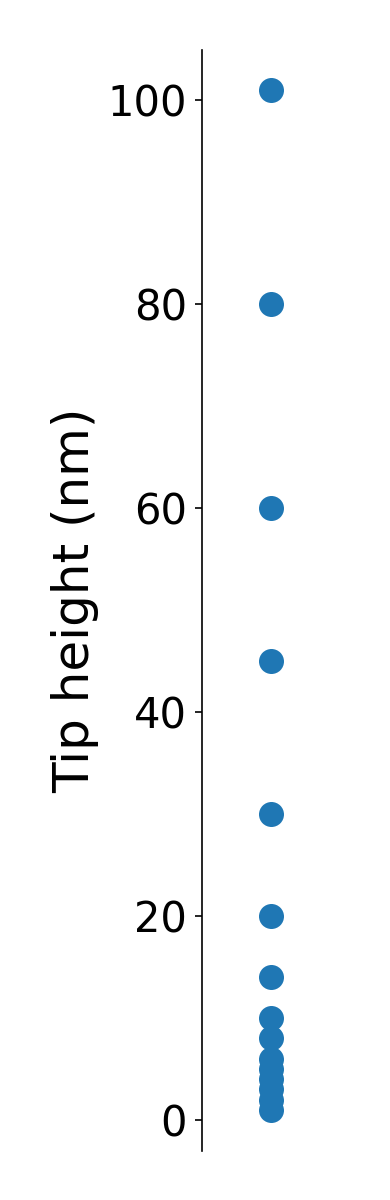
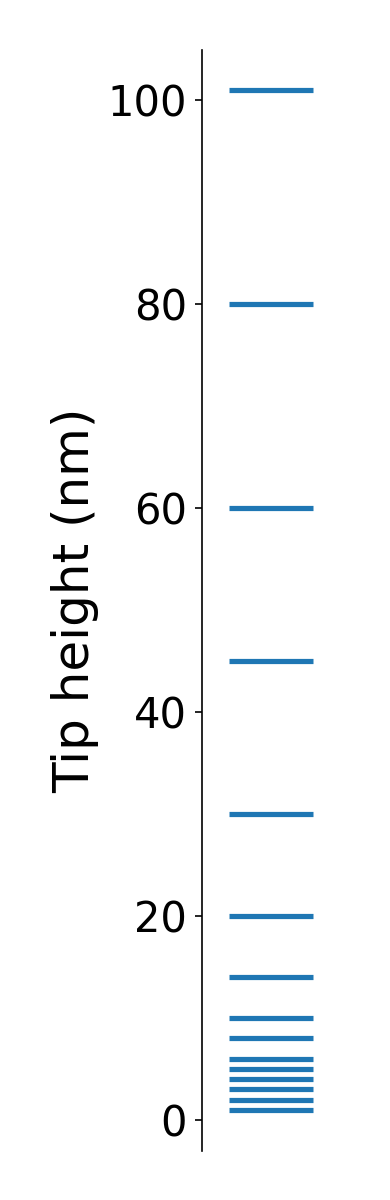
2D: heights plot with horizontal lines

diff --git a/Interface_LineScan_2D/plot_2d.py b/Interface_LineScan_2D/plot_2d.py
@@ -947,7 +947,7 @@ def plot_heights():
     hs = sorted(set([1, 2, 3, 4, 6, 8, 10, 14, 20, 30, 45, 60, 80, 101] + [5]))
     with plt.rc_context({'font.size': 22, 'axes.labelsize': 24, 'ytick.labelsize': 20}):
         fig, ax = plt.subplots(figsize=(2.6, 8))
-        ax.plot(np.zeros(len(hs)), hs, 'o', ms=11, color='C0')
+        ax.hlines(hs, -0.6, 0.6, color='C0', lw=2.5)
         ax.set_ylabel('Tip height (nm)')
         ax.set_ylim(-3, 105)
         ax.set_xlim(-1, 1)
